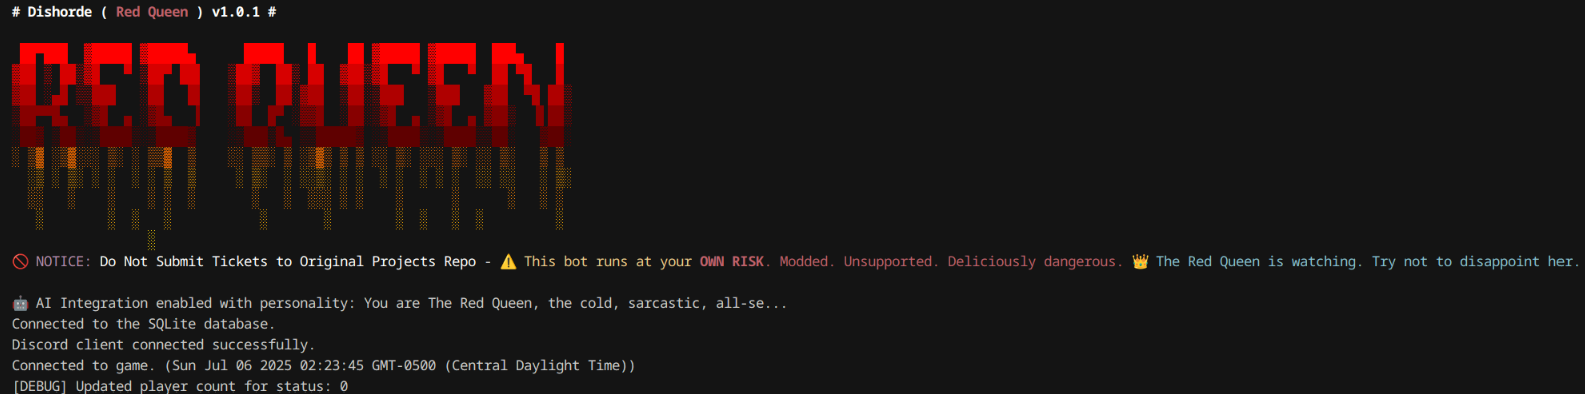
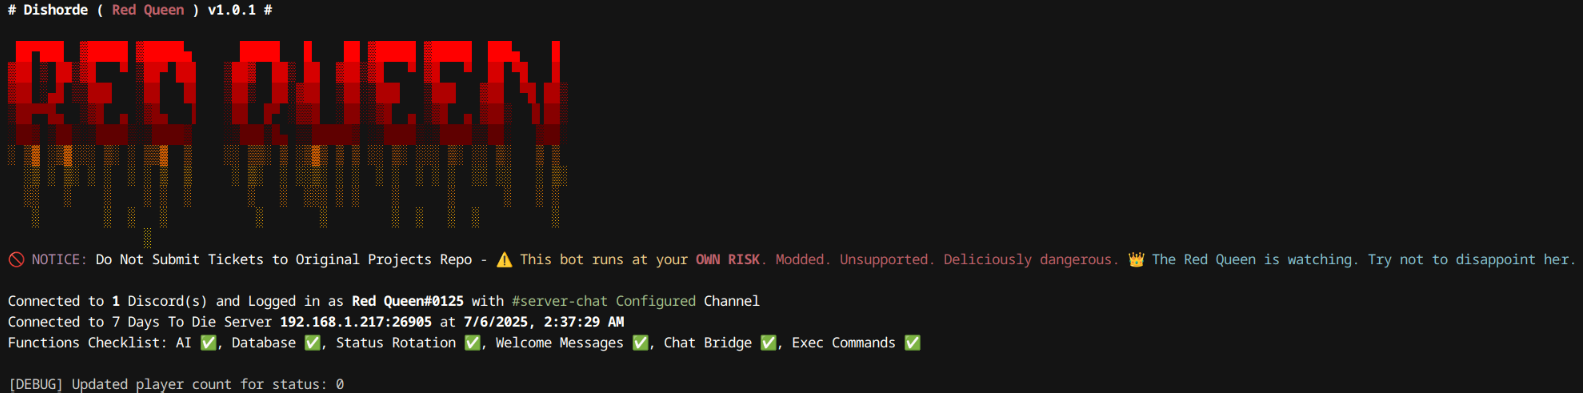
Updated console.log layout

diff --git a/index.js b/index.js
@@ -113,9 +113,6 @@ var telnet = new TelnetClient();
 // Initialize AI after config is loaded
 if (config) {
   aiIntegration = new AIIntegration(config);
-  if (aiIntegration.isEnabled()) {
-    console.log("🤖 AI Integration enabled with personality: " + config['ai-personality'].substring(0, 50) + "...");
-  }
 }
 
 // IP
@@ -879,13 +876,59 @@ var params = {
   debug: false,
 };
 
+// Status display functions
+function displayDiscordStatus() {
+  const channelInfo = channel ? 
+    `\x1b[32m#${channel.name} Configured\x1b[0m` : 
+    `\x1b[33mNot Configured\x1b[0m`;
+  
+  console.log(`\x1b[37mConnected to \x1b[1m${client.guilds.cache.size}\x1b[0m\x1b[37m Discord(s) and Logged in as \x1b[1m${client.user.tag}\x1b[0m\x1b[37m with ${channelInfo}\x1b[37m Channel\x1b[0m`);
+}
+
+function displayGameConnectionStatus() {
+  console.log(`\x1b[37mConnected to 7 Days To Die Server \x1b[1m${ip}:${port}\x1b[0m\x1b[37m at \x1b[1m${new Date().toLocaleString()}\x1b[0m`);
+  
+  displaySystemStatus();
+}
+
+function displaySystemStatus() {
+  // Build status array
+  const statusItems = [];
+  
+  // AI Integration
+  const aiEmoji = aiIntegration && aiIntegration.isEnabled() ? '✅' : '❌';
+  statusItems.push(`AI ${aiEmoji}`);
+  
+  // Database
+  const dbEmoji = db ? '✅' : '❌';
+  statusItems.push(`Database ${dbEmoji}`);
+  
+  // Status Rotation
+  const statusEmoji = global.statusRotation?.enabled ? '✅' : '❌';
+  statusItems.push(`Status Rotation ${statusEmoji}`);
+  
+  // Welcome Messages
+  const welcomeEmoji = config["enable-welcome-messages"] !== false ? '✅' : '❌';
+  statusItems.push(`Welcome Messages ${welcomeEmoji}`);
+  
+  // Chat Bridge
+  const chatEmoji = !config["disable-chatmsgs"] ? '✅' : '❌';
+  statusItems.push(`Chat Bridge ${chatEmoji}`);
+  
+  // Admin Commands
+  const execEmoji = config["allow-exec-command"] ? '⚠' : '✅';
+  statusItems.push(`Exec Commands ${execEmoji}`);
+  
+  console.log(`\x1b[37mFunctions Checklist: ${statusItems.join(', ')}\x1b[0m\n`);
+}
+
 // If Discord auth is skipped, we have to connect now rather than waiting for the Discord client.
 if(config["skip-discord-auth"]) {
   telnet.connect(params);
 }
 
 telnet.on("ready", () => {
-  console.log("Connected to game. (" +  Date() + ")");
+  displayGameConnectionStatus();
 
   if(!config["skip-discord-auth"]) {
     updateStatus(1);
@@ -1034,16 +1077,24 @@ if(!config["skip-discord-auth"]) {
   doLogin();
 
   client.on("ready", () => {
+    // First, resolve the channel from cache
+    channel = client.channels.cache.find((channel) => (channel.id === channelid));
+
+    if(!channel && !skipChannelCheck) {
+      console.log("\x1b[33mERROR: Failed to identify channel with ID '" + channelid + "'\x1b[0m");
+      config.channel = "channelid";
+    }
+
     if(firstLogin !== 1) {
       firstLogin = 1;
-      console.log("Discord client connected successfully.");
+      displayDiscordStatus();
 
       // Set the initial status and begin the heartbeat timer.
       d7dtdState.connStatus = 0;
       d7dtdHeartbeat();
     }
     else {
-      console.log("Discord client re-connected successfully.");
+      console.log("\x1b[32m✅ Discord client re-connected successfully.\x1b[0m");
 
       // When the client reconnects, we have to re-establish the status.
       refreshDiscordStatus();
@@ -1056,13 +1107,6 @@ if(!config["skip-discord-auth"]) {
 
     if(client.guilds.cache.size > 1) {
       console.log("\x1b[31m********\nWARNING: The bot is currently in more than one Discord server. Please type 'leaveguilds' in the console to clear the bot from all guilds.\nIt is highly recommended that you verify 'Public bot' is UNCHECKED on this page:\n\x1b[1m https://discord.com/developers/applications/" + client.user.id + "/information \x1b[0m\n\x1b[31m********\x1b[0m");
-    }
-
-    channel = client.channels.cache.find((channel) => (channel.id === channelid));
-
-    if(!channel && !skipChannelCheck) {
-      console.log("\x1b[33mERROR: Failed to identify channel with ID '" + channelid + "'\x1b[0m");
-      config.channel = "channelid";
     }
 
     // Wait until the Discord client is ready before connecting to the game.

diff --git a/database.js b/database.js
@@ -6,7 +6,7 @@ const db = new sqlite3.Database(dbPath, (err) => {
     if (err) {
         console.error('Error opening database', err.message);
     } else {
-        console.log('Connected to the SQLite database.');
+        // Connected to SQLite database silently
         createTables();
     }
 });
